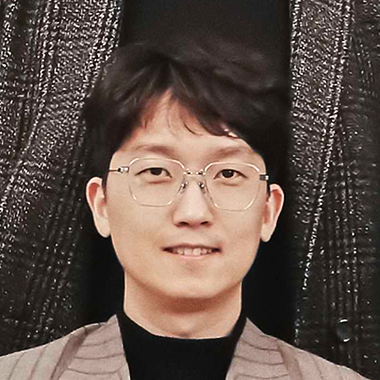
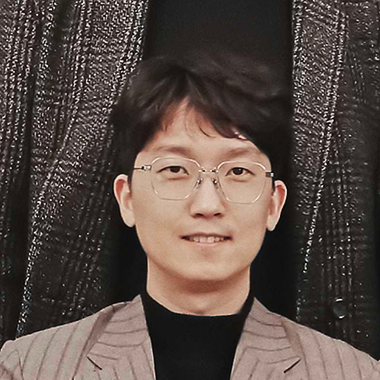
sg & jr

diff --git a/src/pages/People/People.jsx b/src/pages/People/People.jsx
@@ -11,7 +11,8 @@ import jinjeong_image from "../../images/member_photo/jinjeong.jpg";
 import hyunseungmoon_image from "../../images/member_photo/hyunseungmoon.jpg";
 import jaeyoungchoi_image from "../../images/member_photo/jaeyoungchoi.jpg";
 import hyunlee_image from "../../images/member_photo/hyun.png";
-import jaeryungchung_image from "../../images/member_photo/jaeryungchung.jpg";
+//import jaeryungchung_image from "../../images/member_photo/jaeryungchung.jpg";
+import jaeryungchung_image from "../../images/member_photo/jaeryung.png";
 import donggunlee_image from "../../images/member_photo/donggunlee.png";
 import yoonjaeoh_image from "../../images/member_photo/yoonjaeoh.jpg";
 import jungwonpark_image from "../../images/member_photo/jwpark.png";
